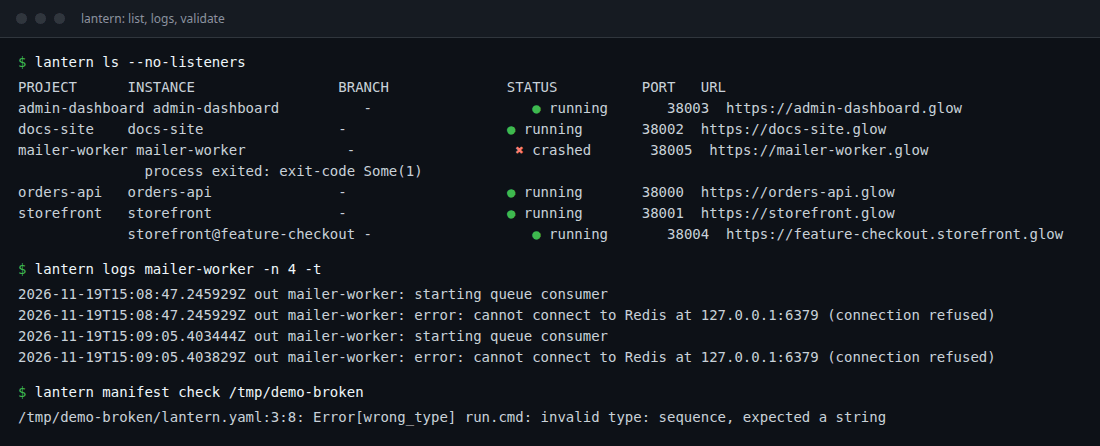
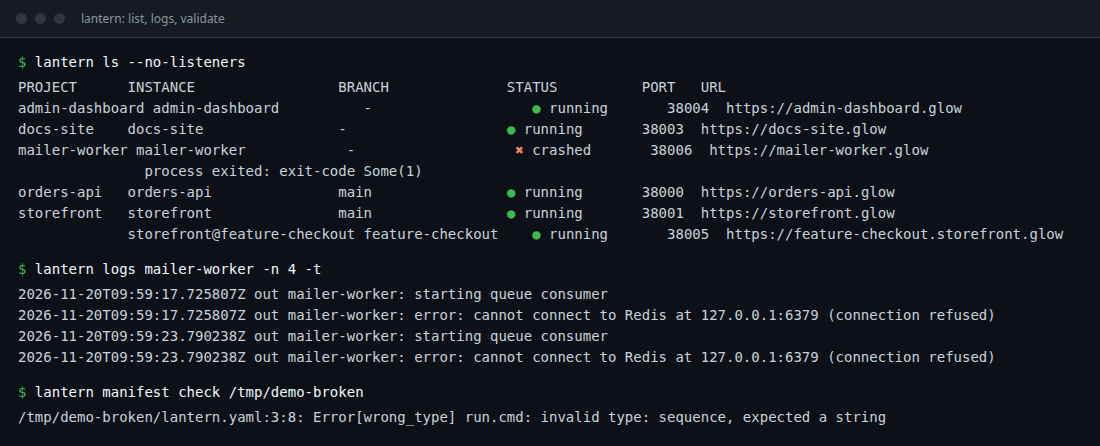
Update Readme, fixed git issues.

diff --git a/ui/src/ToolCard.tsx b/ui/src/ToolCard.tsx
@@ -175,15 +175,18 @@ export function ToolCard({
           </Button>
         ) : null}
         <div className="flex-1" />
-        <Button
-          variant="ghost"
-          size="sm"
-          title={hasGit ? 'Branches and worktrees' : 'Check for git repository & worktrees'}
-          onClick={() => actions.openBranches(project)}
-        >
-          <GitBranch className="h-4 w-4" />
-          {worktreeCount > 0 ? worktreeCount : hasGit ? 'Branches' : 'Git'}
-        </Button>
+        {hasGit ? (
+          <Button
+            variant="ghost"
+            size={worktreeCount > 0 ? 'sm' : 'icon'}
+            title="Branches & worktrees"
+            aria-label="Branches & worktrees"
+            onClick={() => actions.openBranches(project)}
+          >
+            <GitBranch className="h-4 w-4" />
+            {worktreeCount > 0 ? worktreeCount : null}
+          </Button>
+        ) : null}
         {primary && managed ? (
           <Button variant="ghost" size="sm" onClick={() => actions.logs(primary, project.name)}>
             <ScrollText className="h-4 w-4" />

diff --git a/crates/lantern-daemon/src/registry/mod.rs b/crates/lantern-daemon/src/registry/mod.rs
@@ -501,6 +501,33 @@ impl RegistryHandle {
         s.publish_project(&project);
         Ok(())
     }
+    /// Update live git metadata on an instance checkout and publish if changed.
+    pub fn set_checkout_git(
+        &self,
+        id: &InstanceId,
+        git_root: Option<PathBuf>,
+        branch: Option<String>,
+        head: Option<String>,
+        locked: Option<String>,
+    ) -> Result<(), Error> {
+        let mut s = self.lock();
+        let Some(checkout) = s.checkouts.get_mut(id) else {
+            return Err(Error::InstanceNotFound(id.clone()));
+        };
+        if checkout.git_root != git_root
+            || checkout.branch != branch
+            || checkout.head != head
+            || checkout.locked != locked
+        {
+            checkout.git_root = git_root;
+            checkout.branch = branch;
+            checkout.head = head;
+            checkout.locked = locked;
+            s.publish_index();
+            s.publish_instance(id);
+        }
+        Ok(())
+    }
     /// Remove a non-primary instance and its lease without deleting any files.
     pub fn remove_instance(&self, id: &InstanceId) -> Result<(), Error> {
         if id.is_primary() {

diff --git a/crates/lantern-daemon/src/app/adapters/mod.rs b/crates/lantern-daemon/src/app/adapters/mod.rs
@@ -244,6 +244,18 @@ impl InstanceStore for RegistryAdapter {
     fn set_setup_stale(&self, id: &InstanceId, stale: bool) -> Result<(), String> {
         RegistryAdapter::set_setup_stale(self, id, stale)
     }
+    fn set_checkout_git(
+        &self,
+        id: &InstanceId,
+        git_root: Option<std::path::PathBuf>,
+        branch: Option<String>,
+        head: Option<String>,
+        locked: Option<String>,
+    ) -> Result<(), String> {
+        self.registry
+            .set_checkout_git(id, git_root, branch, head, locked)
+            .map_err(|e| e.to_string())
+    }
     fn flush(&self) -> crate::instances::InstanceStoreFlushFuture<'_> {
         Box::pin(self.flush_registry())
     }

diff --git a/crates/lantern-daemon/src/instances/mod.rs b/crates/lantern-daemon/src/instances/mod.rs
@@ -56,6 +56,17 @@ pub trait InstanceStore: Send + Sync {
     fn set_setup_stale(&self, _id: &InstanceId, _stale: bool) -> Result<(), String> {
         Ok(())
     }
+    /// Publish live git checkout metadata (git root, branch, head, lock) for an observed checkout.
+    fn set_checkout_git(
+        &self,
+        _id: &InstanceId,
+        _git_root: Option<PathBuf>,
+        _branch: Option<String>,
+        _head: Option<String>,
+        _locked: Option<String>,
+    ) -> Result<(), String> {
+        Ok(())
+    }
     /// Persist pending instance mutations before an irreversible Git operation.
     fn flush(&self) -> InstanceStoreFlushFuture<'_> {
         Box::pin(async { Ok(()) })

diff --git a/crates/lantern-daemon/src/instances/service.rs b/crates/lantern-daemon/src/instances/service.rs
@@ -422,6 +422,15 @@ impl InstanceService {
                     }
                 }
                 observed.insert(id.clone());
+                self.store
+                    .set_checkout_git(
+                        &id,
+                        Some(wt.path.clone()),
+                        wt.branch.clone(),
+                        wt.head.clone(),
+                        wt.locked.clone(),
+                    )
+                    .map_err(InstanceError::Adapter)?;
                 self.observations.lock().expect("observations lock").insert(
                     id,
                     CheckoutObservation {
